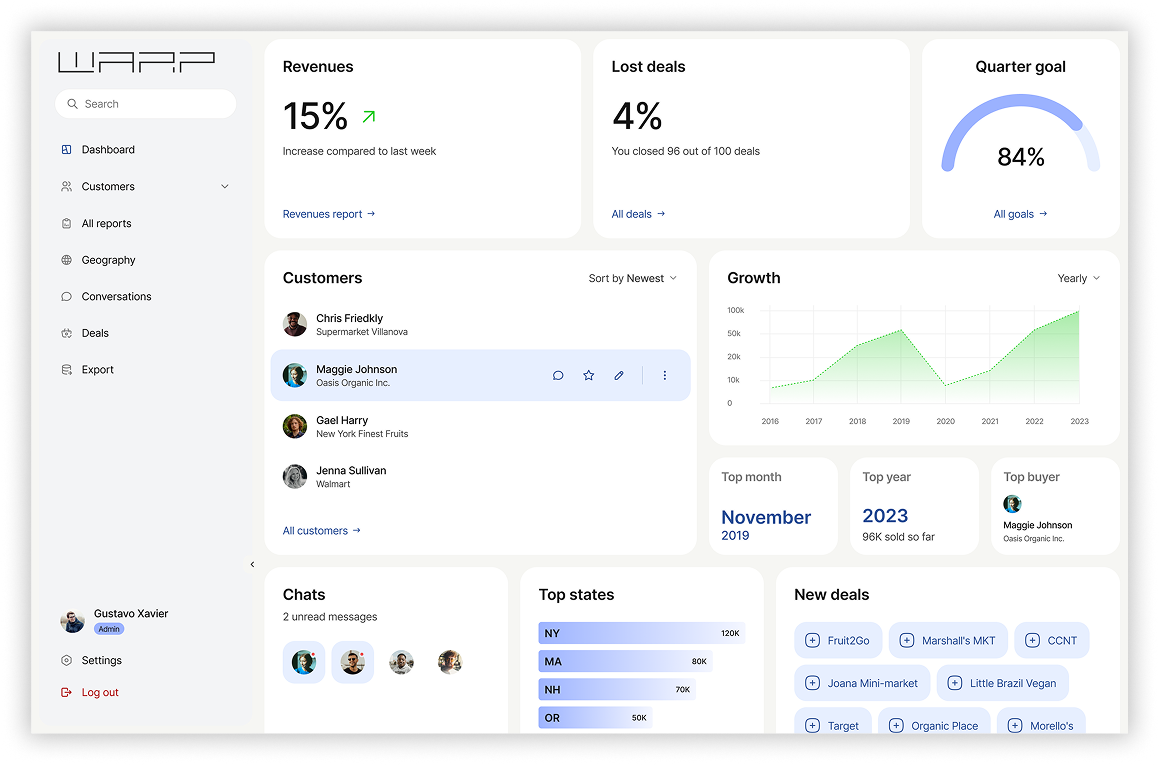
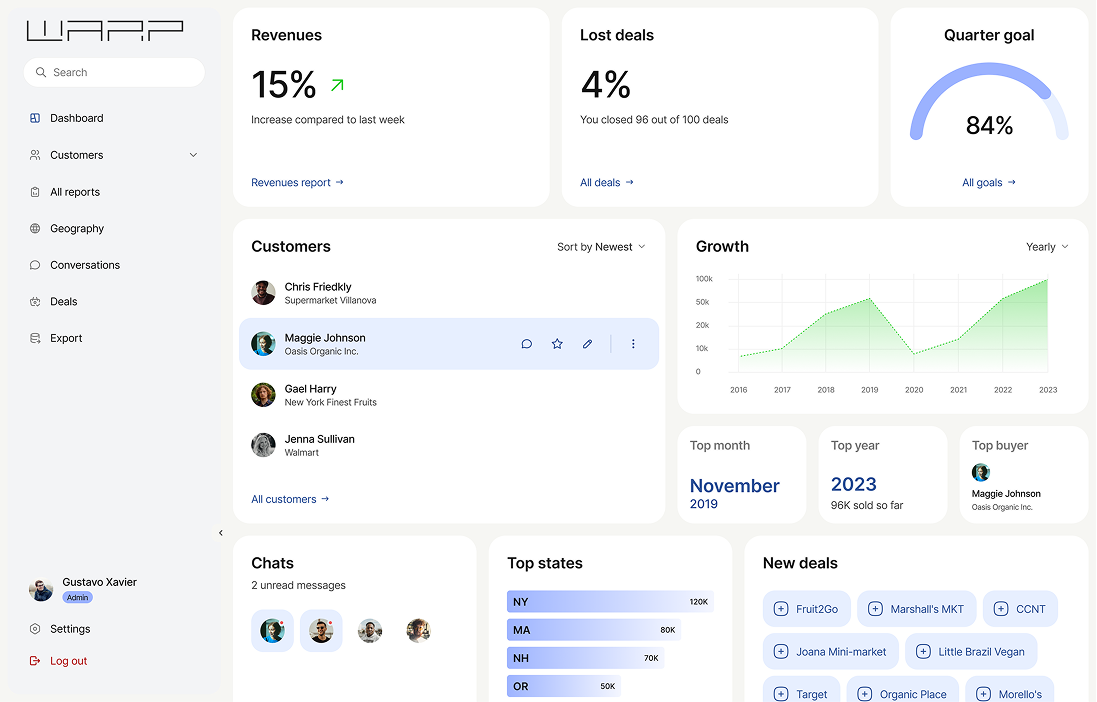
fixed webinterface placeholder image

diff --git a/assets/css/output.css b/assets/css/output.css
@@ -546,9 +546,6 @@
   .w-full {
     width: 100%;
   }
-  .w-xl {
-    width: var(--container-xl);
-  }
   .max-w-3xl {
     max-width: var(--container-3xl);
   }
@@ -575,9 +572,6 @@
   }
   .min-w-150 {
     min-width: calc(var(--spacing) * 150);
-  }
-  .min-w-\[600px\] {
-    min-width: 600px;
   }
   .min-w-full {
     min-width: 100%;
@@ -683,9 +677,6 @@
   .gap-12 {
     gap: calc(var(--spacing) * 12);
   }
-  .gap-20 {
-    gap: calc(var(--spacing) * 20);
-  }
   .gap-\[20px\] {
     gap: 20px;
   }
@@ -712,6 +703,9 @@
   }
   .overflow-x-hidden {
     overflow-x: hidden;
+  }
+  .rounded-2xl {
+    border-radius: var(--radius-2xl);
   }
   .rounded-\[9px\] {
     border-radius: 9px;
@@ -780,9 +774,6 @@
       --tw-gradient-position: to top in oklab;
     }
     background-image: linear-gradient(var(--tw-gradient-stops));
-  }
-  .bg-\[linear-gradient\(180deg\,\#ffffff_0\%\,\#B0BAE9_100\%\)\] {
-    background-image: linear-gradient(180deg,#ffffff 0%,#B0BAE9 100%);
   }
   .bg-\[linear-gradient\(180deg\,rgb\(255\,255\,255\)_19\.767\%\,rgb\(245\,245\,245\)_84\.884\%\)\] {
     background-image: linear-gradient(180deg,rgb(255,255,255) 19.767%,rgb(245,245,245) 84.884%);
@@ -856,9 +847,6 @@
   }
   .object-cover {
     object-fit: cover;
-  }
-  .object-center {
-    object-position: center;
   }
   .p-1\.5 {
     padding: calc(var(--spacing) * 1.5);
@@ -1032,20 +1020,12 @@
   .font-satoshi {
     font-family: var(--font-satoshi);
   }
-  .text-2xl {
-    font-size: var(--text-2xl);
-    line-height: var(--tw-leading, var(--text-2xl--line-height));
-  }
   .text-3xl {
     font-size: var(--text-3xl);
     line-height: var(--tw-leading, var(--text-3xl--line-height));
   }
-  .text-base {
-    font-size: var(--text-base);
-    line-height: var(--tw-leading, var(--text-base--line-height));
-  }
-  .text-\[16px\] {
-    font-size: 16px;
+  .text-\[10px\] {
+    font-size: 10px;
   }
   .text-\[18px\]\! {
     font-size: 18px !important;
@@ -1059,20 +1039,9 @@
   .text-\[28px\]\! {
     font-size: 28px !important;
   }
-  .text-\[30px\] {
-    font-size: 30px;
-  }
   .leading-\[1\.3\] {
     --tw-leading: 1.3;
     line-height: 1.3;
-  }
-  .leading-relaxed {
-    --tw-leading: var(--leading-relaxed);
-    line-height: var(--leading-relaxed);
-  }
-  .leading-tight {
-    --tw-leading: var(--leading-tight);
-    line-height: var(--leading-tight);
   }
   .font-black {
     --tw-font-weight: var(--font-weight-black);
@@ -1093,9 +1062,6 @@
   .whitespace-nowrap {
     white-space: nowrap;
   }
-  .text-\[\#8AAEE9\] {
-    color: #8AAEE9;
-  }
   .text-black {
     color: var(--color-black);
   }
@@ -1104,9 +1070,6 @@
   }
   .text-grey {
     color: var(--color-grey);
-  }
-  .text-light-grey {
-    color: var(--color-light-grey);
   }
   .text-medium-grey {
     color: var(--color-medium-grey);
@@ -1275,11 +1238,6 @@
       margin-inline: calc(var(--spacing) * 0);
     }
   }
-  .md\:block {
-    @media (width >= 48rem) {
-      display: block;
-    }
-  }
   .md\:flex {
     @media (width >= 48rem) {
       display: flex;
@@ -1345,6 +1303,21 @@
       padding-inline: calc(var(--spacing) * 8);
     }
   }
+  .md\:px-16 {
+    @media (width >= 48rem) {
+      padding-inline: calc(var(--spacing) * 16);
+    }
+  }
+  .md\:px-32 {
+    @media (width >= 48rem) {
+      padding-inline: calc(var(--spacing) * 32);
+    }
+  }
+  .md\:px-64 {
+    @media (width >= 48rem) {
+      padding-inline: calc(var(--spacing) * 64);
+    }
+  }
   .md\:py-24 {
     @media (width >= 48rem) {
       padding-block: calc(var(--spacing) * 24);
@@ -1370,12 +1343,6 @@
       text-align: left;
     }
   }
-  .md\:text-3xl {
-    @media (width >= 48rem) {
-      font-size: var(--text-3xl);
-      line-height: var(--tw-leading, var(--text-3xl--line-height));
-    }
-  }
   .md\:text-4xl {
     @media (width >= 48rem) {
       font-size: var(--text-4xl);
@@ -1393,14 +1360,54 @@
       position: absolute;
     }
   }
+  .lg\:-top-1\.5 {
+    @media (width >= 64rem) {
+      top: calc(var(--spacing) * -1.5);
+    }
+  }
   .lg\:-top-2\.5 {
     @media (width >= 64rem) {
       top: calc(var(--spacing) * -2.5);
     }
   }
+  .lg\:top-0\.5 {
+    @media (width >= 64rem) {
+      top: calc(var(--spacing) * 0.5);
+    }
+  }
+  .lg\:top-1\.5 {
+    @media (width >= 64rem) {
+      top: calc(var(--spacing) * 1.5);
+    }
+  }
+  .lg\:top-2\.5 {
+    @media (width >= 64rem) {
+      top: calc(var(--spacing) * 2.5);
+    }
+  }
+  .lg\:-bottom-1\.5 {
+    @media (width >= 64rem) {
+      bottom: calc(var(--spacing) * -1.5);
+    }
+  }
   .lg\:-bottom-2\.5 {
     @media (width >= 64rem) {
       bottom: calc(var(--spacing) * -2.5);
+    }
+  }
+  .lg\:bottom-0\.5 {
+    @media (width >= 64rem) {
+      bottom: calc(var(--spacing) * 0.5);
+    }
+  }
+  .lg\:bottom-1\.5 {
+    @media (width >= 64rem) {
+      bottom: calc(var(--spacing) * 1.5);
+    }
+  }
+  .lg\:bottom-2\.5 {
+    @media (width >= 64rem) {
+      bottom: calc(var(--spacing) * 2.5);
     }
   }
   .lg\:left-0 {
@@ -1468,9 +1475,19 @@
       max-width: none;
     }
   }
+  .lg\:flex-1 {
+    @media (width >= 64rem) {
+      flex: 1;
+    }
+  }
   .lg\:flex-row {
     @media (width >= 64rem) {
       flex-direction: row;
+    }
+  }
+  .lg\:items-start {
+    @media (width >= 64rem) {
+      align-items: flex-start;
     }
   }
   .lg\:items-stretch {
@@ -1483,19 +1500,9 @@
       gap: calc(var(--spacing) * 8);
     }
   }
-  .lg\:gap-16 {
+  .lg\:gap-24 {
     @media (width >= 64rem) {
-      gap: calc(var(--spacing) * 16);
-    }
-  }
-  .lg\:gap-20 {
-    @media (width >= 64rem) {
-      gap: calc(var(--spacing) * 20);
-    }
-  }
-  .lg\:gap-32 {
-    @media (width >= 64rem) {
-      gap: calc(var(--spacing) * 32);
+      gap: calc(var(--spacing) * 24);
     }
   }
   .lg\:gap-64 {
@@ -1513,6 +1520,11 @@
       padding-inline: calc(var(--spacing) * 8);
     }
   }
+  .lg\:py-32 {
+    @media (width >= 64rem) {
+      padding-block: calc(var(--spacing) * 32);
+    }
+  }
   .lg\:pt-32 {
     @media (width >= 64rem) {
       padding-top: calc(var(--spacing) * 32);
@@ -1522,12 +1534,6 @@
     @media (width >= 64rem) {
       font-size: var(--text-4xl);
       line-height: var(--tw-leading, var(--text-4xl--line-height));
-    }
-  }
-  .lg\:text-5xl {
-    @media (width >= 64rem) {
-      font-size: var(--text-5xl);
-      line-height: var(--tw-leading, var(--text-5xl--line-height));
     }
   }
   .lg\:text-xl {
@@ -1735,6 +1741,7 @@
 .feature-icon {
   height: calc(var(--spacing) * 16);
   width: calc(var(--spacing) * 16);
+  stroke: var(--color-dark-primary);
   color: var(--color-dark-primary);
   transition-property: color, background-color, border-color, outline-color, text-decoration-color, fill, stroke, --tw-gradient-from, --tw-gradient-via, --tw-gradient-to;
   transition-timing-function: var(--tw-ease, var(--default-transition-timing-function));

diff --git a/index.html b/index.html
@@ -558,37 +558,43 @@
         <!-- Webinterface Section -->
         <section class="relative w-full overflow-hidden py-16 md:py-24 bg-gradient-radial-dark">
             
-            <div class="relative z-10 max-w-7xl mx-auto px-4 md:px-8 flex flex-col lg:flex-row items-center lg:items-stretch gap-12 lg:gap-64">
+            <div class="relative z-10 max-w-7xl mx-auto px-4 md:px-64 flex flex-col lg:flex-row items-center lg:items-stretch gap-12 lg:gap-24">
                 
                 <!-- Text -->
                 <div class="flex flex-col gap-8 lg:w-105 shrink-0 z-20">
-                    <div class="flex items-center gap-3">
-                        <span class="material-symbols-outlined text-[30px] text-[#8AAEE9]">dashboard</span>
-                        <span class="font-satoshi font-medium text-2xl md:text-3xl tracking-[-2px] bg-[linear-gradient(180deg,#ffffff_0%,#B0BAE9_100%)] bg-clip-text text-transparent">
+                    <!-- Badge-->
+                    <div class="flex items-center justify-center md:justify-start gap-2.5">
+                        <div class="w-7.5 h-7.5 rounded-full bg-gradient-light-blue p-px flex items-center justify-center">
+                            <div class="w-full h-full rounded-full bg-gradient-deep-blue flex items-center justify-center">
+
+                                <span class="material-symbols-outlined text-[18px]! bg-gradient-white-blue bg-clip-text text-transparent">dashboard</span>
+                            </div>
+                        </div>
+                        <span class="text-h3 bg-gradient-white-blue bg-clip-text text-transparent pr-2 -mr-2">
                             Dashboard
                         </span>
                     </div>
 
                     <div>
-                        <h2 class="font-satoshi font-bold text-white text-3xl md:text-4xl lg:text-5xl tracking-[-2px] leading-tight">
-                            All Ihre Daten,
-                            <br class="hidden md:block">
-                            vollständig einstellbar.
+                        <h2 class="text-h2 text-white text-left">
+                            All Ihre Daten, vollständig einstellbar.
                         </h2>
                     </div>
 
-                    <p class="text-light-grey font-satoshi font-medium text-base leading-relaxed">
+                    <p class="text-white/80 text-body text-left">
                         Behalten Sie Ihre Ladevorgänge immer im Blick. Das Webinterface zeigt Ihnen in Echtzeit alle relevanten Live-Daten wie die aktuelle Ladeleistung, die Ladedauer und die bereits geladene Energiemenge direkt auf einen Blick an.
                     </p>
 
                     <div class="flex flex-col gap-2">
-                        <p class="text-light-grey font-satoshi font-medium text-base leading-relaxed">
+                        <p class="text-white/80 text-body text-left">
                             Passen Sie das Ladeverhalten an Ihre Bedürfnisse an. Nutzen Sie intelligente Features wie das PV-Überschussladen, um Ihr Fahrzeug umweltfreundlich mit dem eigenen Sonnenstrom zu laden, oder definieren Sie individuelle Ladezeiten.
                         </p>
-                        <a href="#" class="flex items-center gap-1 text-primary font-satoshi font-medium text-base hover:underline transition-all self-start">
-                            Hier mehr erfahren
-                            <span class="material-symbols-outlined text-[16px]">arrow_forward</span>
-                        </a>
+                        <div class="flex flex-row gap-1">
+                            <a href="#" class="flex items-center gap-1 text-primary text-body hover:underline transition-all self-start">
+                                Hier mehr erfahren
+                            </a>
+                            <span class="material-symbols-outlined text-primary text-[10px]">arrow_forward</span>
+                        </div>
                     </div>
                 </div>
 
@@ -601,10 +607,9 @@
                         class="absolute z-0 left-0 top-1/2 -translate-y-1/2 -translate-x-1/2 w-[150%] min-w-150 object-contain pointer-events-none"
                     >
 
-                    <div class="relative lg:absolute lg:-top-2.5 lg:-bottom-2.5 lg:left-0 z-10 w-full lg:w-auto bg-[rgba(255,255,255,0.1)] p-2.5 rounded-[18px] shadow-[0_0_29px_6px_rgba(0,0,0,0.5)] flex flex-col">
-                        <img src="./assets/images/dashboard-placeholder.png" alt="WARP Dashboard" class="rounded-[9px] w-full lg:w-auto h-auto lg:h-full lg:max-w-none block shadow-[0_0_27px_4.5px_rgba(0,0,0,0.25)] object-cover lg:object-left">
+                    <div class="relative lg:absolute lg:-top-1.5 lg:-bottom-1.5 lg:left-0 z-10 w-full lg:w-auto bg-[rgba(255,255,255,0.1)] p-1.5 rounded-2xl shadow-[0_0_29px_6px_rgba(0,0,0,0.5)] block">
+                        <img src="./assets/images/dashboard-placeholder.png" alt="WARP Dashboard" class="rounded-xl w-full lg:w-auto h-auto lg:h-full lg:max-w-none block shadow-[0_0_27px_4.5px_rgba(0,0,0,0.25)] object-cover lg:object-left">
                     </div>
-
                 </div>
             </div>
         </section>
